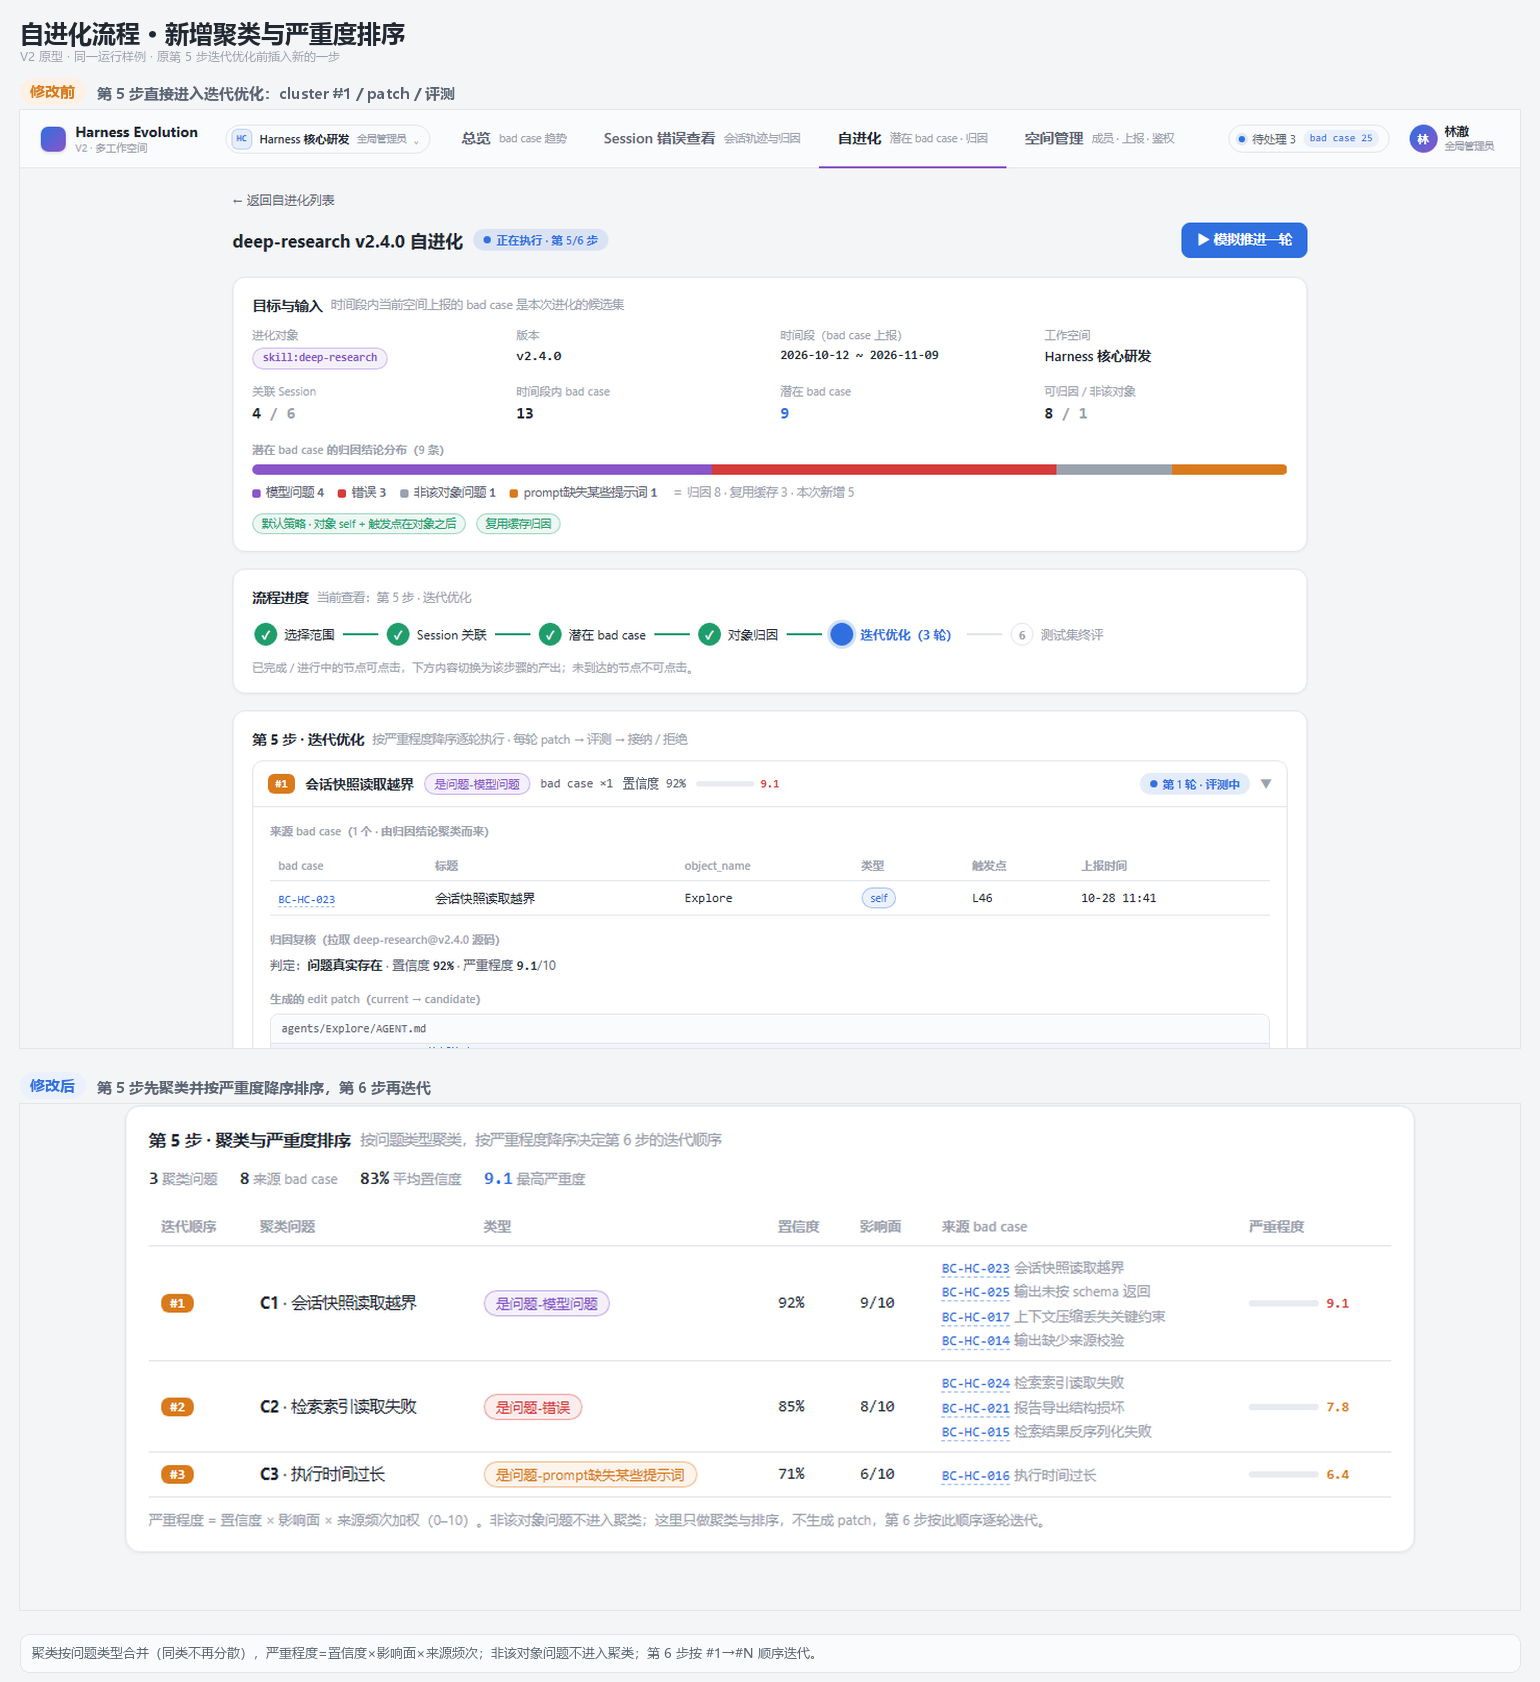
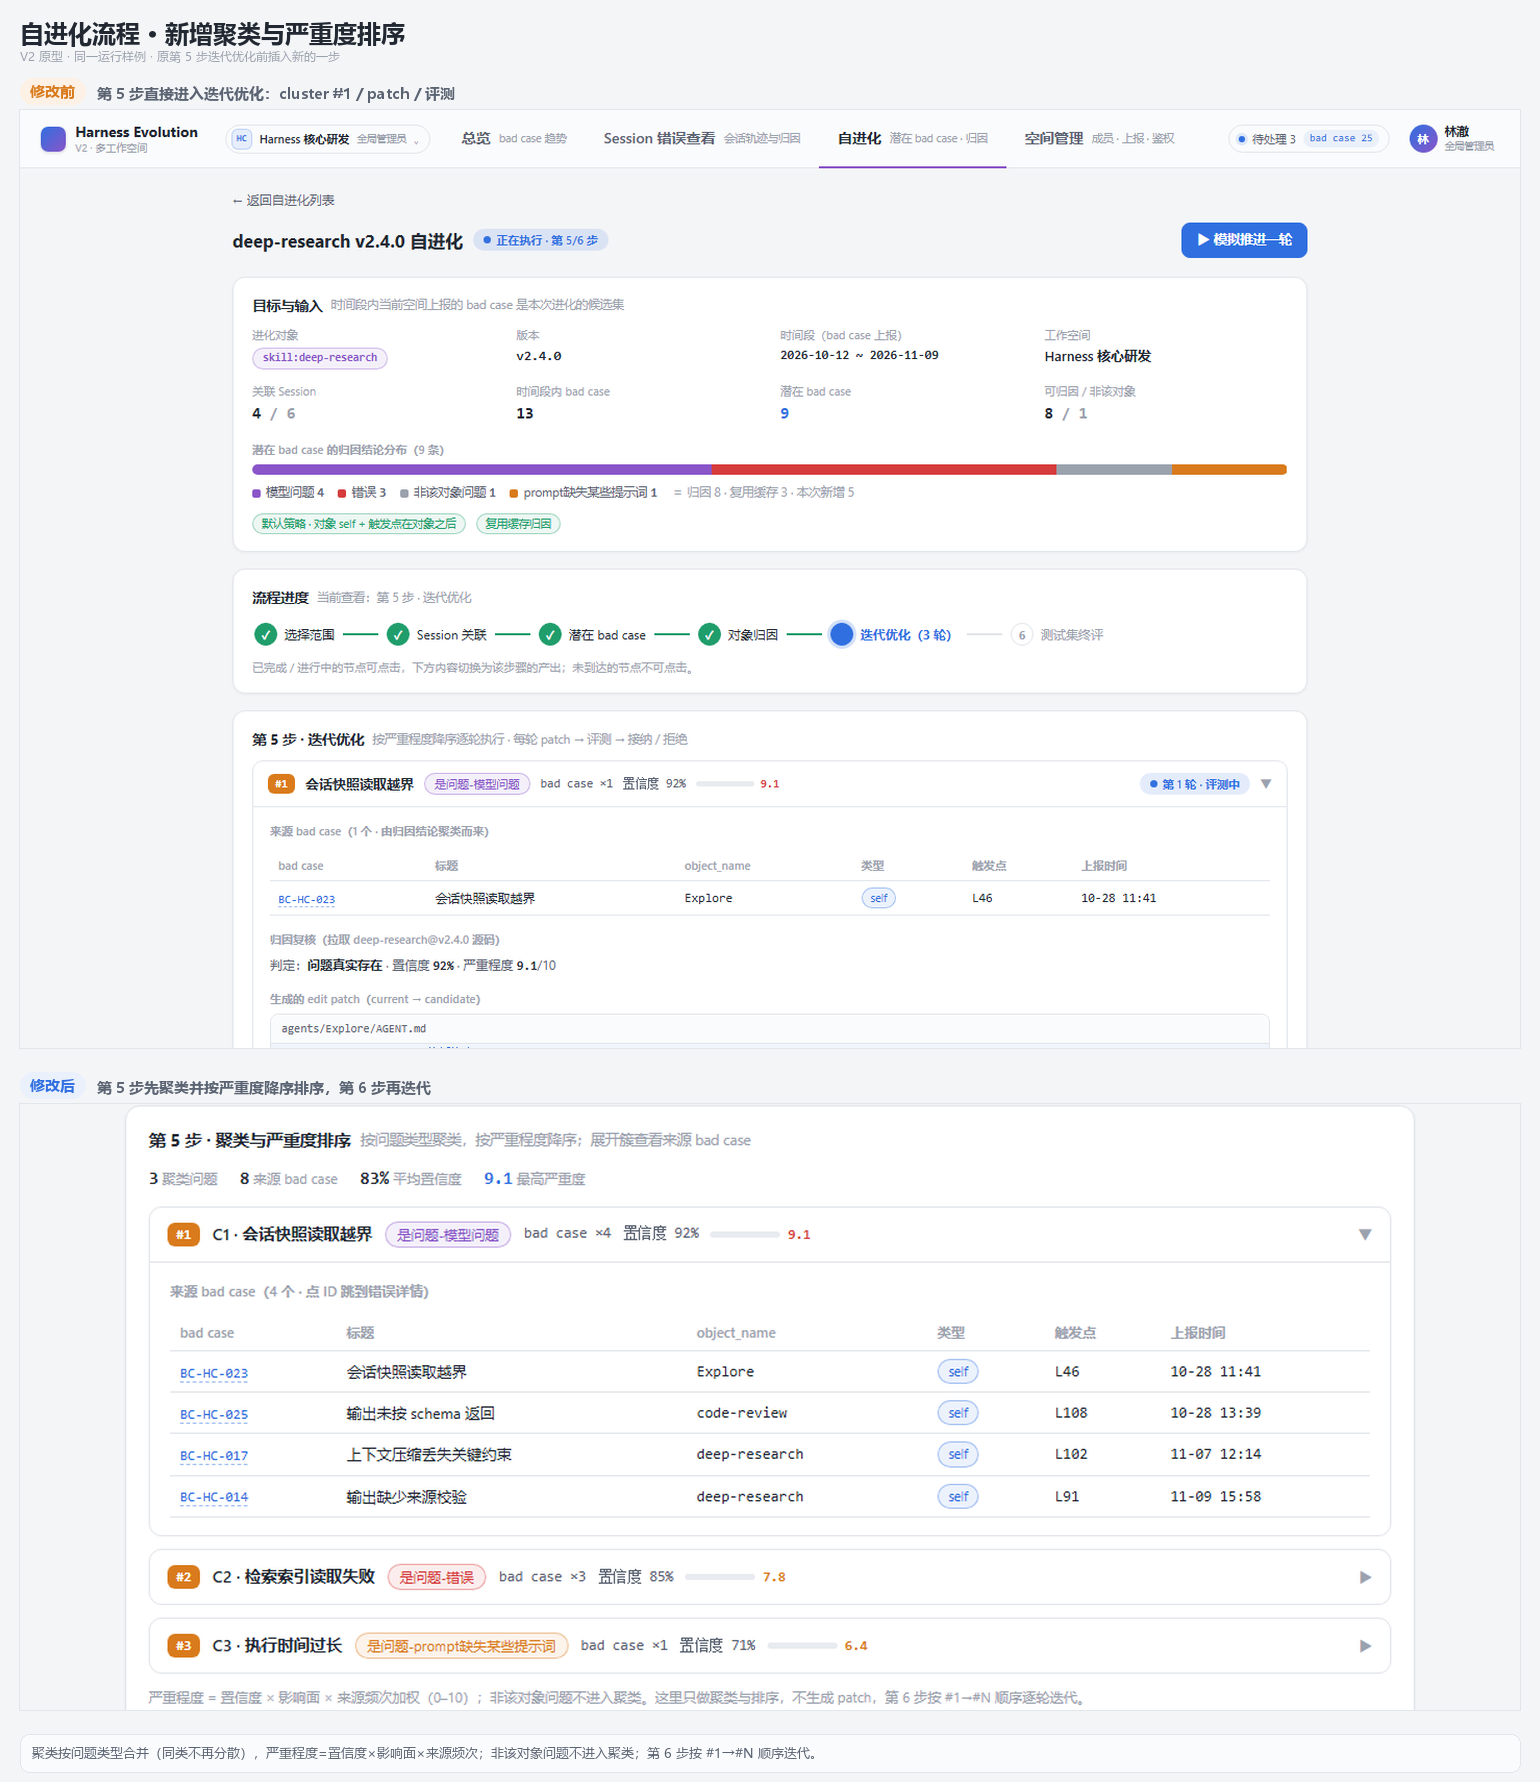
feat(prototype): make cluster source cases collapsible

diff --git a/plans/ui-prototype-v2/harness-evolution.html b/plans/ui-prototype-v2/harness-evolution.html
@@ -3728,37 +3728,34 @@ function evCluster(run, c, i) {
 }
 
 function evStepCluster(run) {
-  const m = run.model;
   const clusters = run.clusters;
   const totalCases = new Set(clusters.flatMap(c => c.caseIds || [])).size;
   const avgConf = clusters.length ? clusters.reduce((a, c) => a + c.conf, 0) / clusters.length : 0;
   const maxSev = clusters.length ? Math.max(...clusters.map(c => c.sev)) : 0;
-  const rows = clusters.map((c, i) => {
-    const cases = (c.caseIds || []).map(id => {
-      const x = caseById(id);
-      return x ? `<div>${evCaseLink(x)} <span class="v2-note">${evEsc(x.title)}</span></div>` : `<div class="mono">${evEsc(id)}</div>`;
-    }).join('');
-    return `<tr>
-      <td class="num"><span class="rank">#${i + 1}</span></td>
-      <td><b>${evEsc(c.id)}</b> · ${evEsc(c.title)}</td>
-      <td>${evTypeChip(c.type)}</td>
-      <td class="num">${(c.conf * 100).toFixed(0)}%</td>
-      <td class="num">${c.impact}/10</td>
-      <td>${cases || '<span class="v2-note">—</span>'}</td>
-      <td>${evSevHTML(c.sev)}</td>
-    </tr>`;
+  const cards = clusters.map((c, i) => {
+    const key = run.id + ':' + c.id;
+    const open = EV_STATE.expanded.has(key);
+    return `<div class="cluster ${open ? 'open' : ''}">
+      <div class="cluster-head" data-action="ev-toggle-cluster" data-key="${key}">
+        <span class="rank">#${i + 1}</span><span class="ctitle">${evEsc(c.id)} · ${evEsc(c.title)}</span>${evTypeChip(c.type)}
+        <span class="meta">bad case ×${(c.caseIds || []).length}</span><span class="meta">置信度 ${(c.conf * 100).toFixed(0)}%</span>${evSevHTML(c.sev)}
+        <span class="tail"><span class="caret">▶</span></span>
+      </div>
+      ${open ? `<div class="cluster-body">
+        <div class="cb-sec"><div class="cb-label">来源 bad case（${(c.caseIds || []).length} 个 · 点 ID 跳到错误详情）</div>${evCaseTable(c)}</div>
+      </div>` : ''}
+    </div>`;
   }).join('');
   return `<div class="card panel">
-    <div class="sec-title">第 5 步 · 聚类与严重度排序 <span class="sub">按问题类型聚类，按严重程度降序决定第 6 步的迭代顺序</span></div>
+    <div class="sec-title">第 5 步 · 聚类与严重度排序 <span class="sub">按问题类型聚类，按严重程度降序；展开簇查看来源 bad case</span></div>
     <div class="wz-stats" style="margin-bottom:11px">
       <span class="st"><b>${clusters.length}</b><span>聚类问题</span></span>
       <span class="st"><b>${totalCases}</b><span>来源 bad case</span></span>
       <span class="st"><b>${(avgConf * 100).toFixed(0)}%</b><span>平均置信度</span></span>
       <span class="st accent"><b>${maxSev.toFixed(1)}</b><span>最高严重度</span></span>
     </div>
-    <table class="metrics"><thead><tr><th>迭代顺序</th><th>聚类问题</th><th>类型</th><th>置信度</th><th>影响面</th><th>来源 bad case</th><th>严重程度</th></tr></thead>
-      <tbody>${rows || '<tr><td colspan="7" class="waiting">没有可聚类的归因结论</td></tr>'}</tbody></table>
-    <p class="v2-note" style="margin-top:9px">严重程度 = 置信度 × 影响面 × 来源频次加权（0–10）。非该对象问题不进入聚类；这里只做聚类与排序，不生成 patch，第 6 步按此顺序逐轮迭代。</p>
+    <div class="cluster-list">${cards || '<div class="waiting">没有可聚类的归因结论</div>'}</div>
+    <p class="v2-note" style="margin-top:9px">严重程度 = 置信度 × 影响面 × 来源频次加权（0–10）；非该对象问题不进入聚类。这里只做聚类与排序，不生成 patch，第 6 步按 #1→#N 顺序逐轮迭代。</p>
   </div>`;
 }
 

diff --git a/plans/ui-prototype-v2/design-v2.md b/plans/ui-prototype-v2/design-v2.md
@@ -157,6 +157,8 @@ Content-Type: application/json
 
 原型把 Session 关联与潜在 bad case 拆成向导第 2、3 步：第 2 步只看关联 Session（分页），第 3 步只看潜在 bad case（分页），第 4 步才做归因预览与启动。
 
+运行详情的聚类步骤按严重程度降序展示簇卡片；每个簇可折叠，展开后在簇下方列出全部来源 bad case（ID、标题、object_name、类型、触发点、上报时间），默认展开第一簇。
+
 实现上，关联表只列对象出现过的 Session；未出现的 Session 只在统计中计为“跳过”，不进入表格。潜在 bad case 默认策略：
 
 ```text
